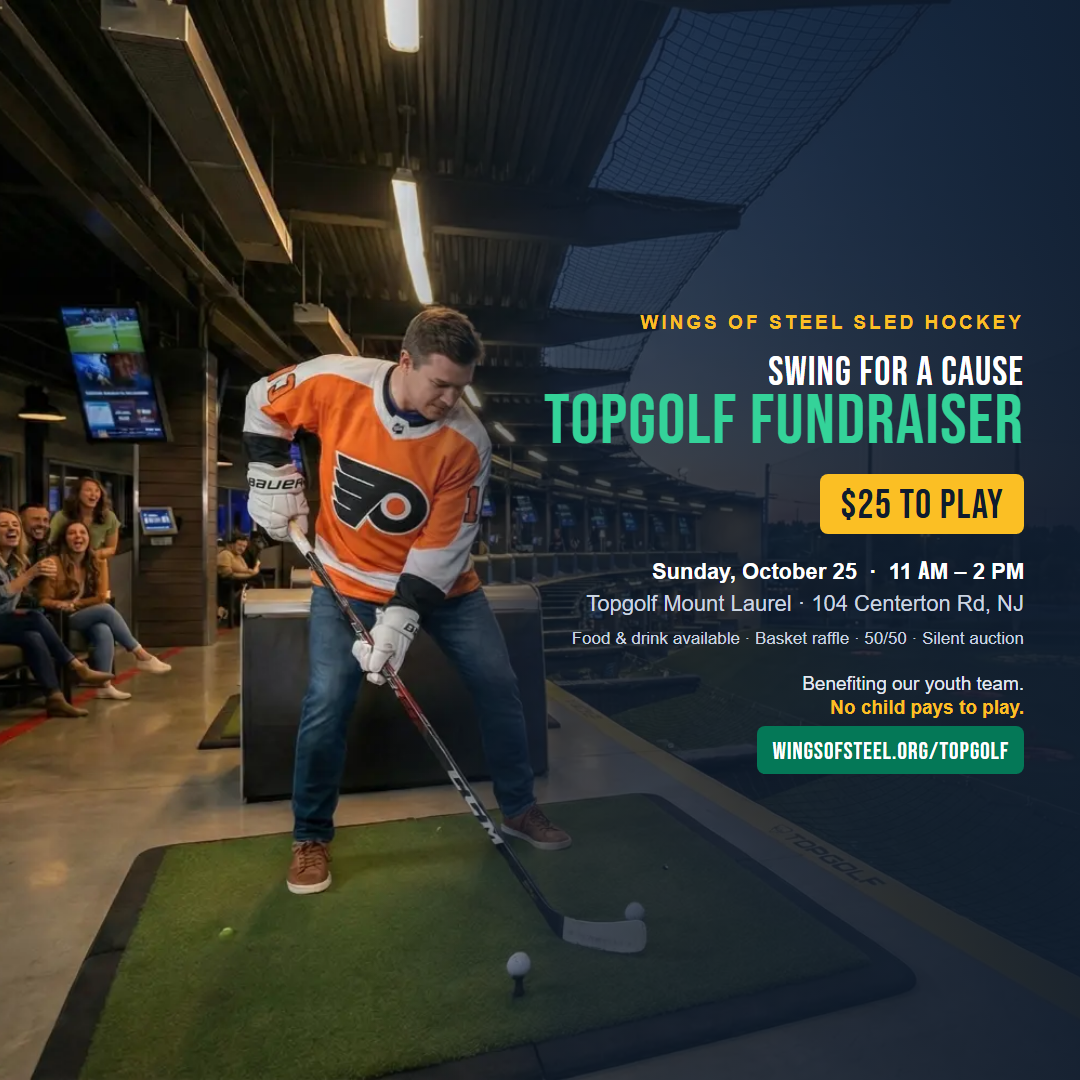
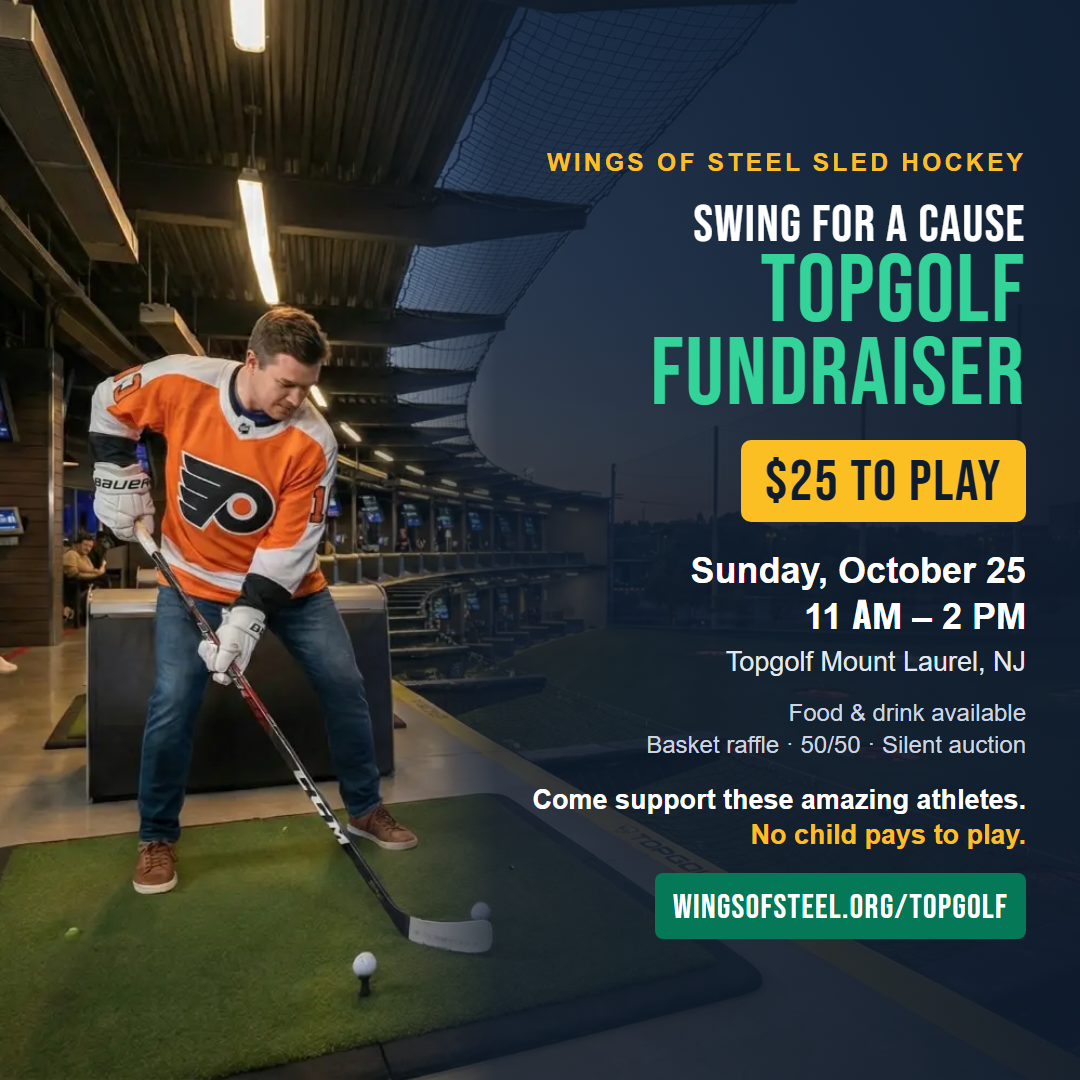
Scale the card type up and lead the copy with why the team exists
The right-hand column fixed the photo but shrank the type to the point of
being unreadable in a feed. The headline now breaks across two lines, which
buys the room to roughly double every size, and the landscape card gets its
own scale rather than a proportional shrink of the square -- same copy in half
the height needed different numbers, and the first attempt overflowed.

Copy now leads with the point rather than the logistics: everyone should get a
chance to play sports, and what these kids overcome to get on the ice is the
reason the team exists. "Come support these amazing athletes" carries onto the
card itself.

Both cards are checked at render time for panel overflow, so a copy edit that
no longer fits fails loudly instead of shipping clipped.

diff --git a/docs/campaigns/assets/fb-card-template.html b/docs/campaigns/assets/fb-card-template.html
@@ -7,48 +7,38 @@ FACES
   .card { position:relative; width:100%; height:100%; font-family:'Oswald',sans-serif; color:#fff; overflow:hidden; }
   .bg { position:absolute; inset:0; }
   .bg img { width:100%; height:100%; object-fit:cover; object-position:var(--imgpos); }
-
-  /* Darken ONLY where type sits, so the player stays untouched. */
   .scrim { position:absolute; inset:0; background:var(--scrim); }
 
   .panel {
-    position:absolute; z-index:2;
-    right:var(--pad); bottom:var(--pad); top:var(--pad);
+    position:absolute; z-index:2; right:var(--pad); top:var(--pad); bottom:var(--pad);
     width:var(--panelw);
-    display:flex; flex-direction:column; justify-content:center;
-    text-align:right;
+    display:flex; flex-direction:column; justify-content:center; text-align:right;
   }
-  .eyebrow { font-weight:700; letter-spacing:.16em; text-transform:uppercase; color:#fbbf24; font-size:var(--eyebrow); }
-  .kicker { font-family:'Bebas Neue',sans-serif; letter-spacing:.03em; line-height:.95; font-size:var(--kicker); margin-top:var(--g1); }
-  .headline { font-family:'Bebas Neue',sans-serif; letter-spacing:.02em; line-height:.88; font-size:var(--headline); color:#34d399; }
-  .price { align-self:flex-end; margin-top:var(--g1); background:#fbbf24; color:#0f1c2e;
+  .eyebrow { font-weight:700; letter-spacing:.12em; text-transform:uppercase; color:#fbbf24; font-size:var(--eyebrow); }
+  .kicker { font-family:'Bebas Neue',sans-serif; letter-spacing:.03em; line-height:1; font-size:var(--kicker); margin-top:var(--g); }
+  .headline { font-family:'Bebas Neue',sans-serif; letter-spacing:.02em; line-height:.86; font-size:var(--headline); color:#34d399; }
+  .price { align-self:flex-end; margin-top:var(--g); background:#fbbf24; color:#0f1c2e;
     font-family:'Bebas Neue',sans-serif; font-size:var(--price); letter-spacing:.03em; line-height:1;
-    padding:var(--pricePad); border-radius:8px; }
-  .price small { font-family:'Oswald',sans-serif; font-weight:600; font-size:var(--priceSmall); }
-  .when { margin-top:var(--g1); font-size:var(--detail); font-weight:600; line-height:1.45; }
-  .when .b { color:#fff; }
-  .when .s { color:#cbd5e1; font-weight:400; }
-  .extras { margin-top:6px; font-size:var(--extras); color:#cbd5e1; font-weight:400; }
-  .foot { margin-top:var(--g1); display:flex; flex-direction:column; align-items:flex-end; gap:8px; }
-  .mission { font-size:var(--mission); color:#e2e8f0; font-weight:400; line-height:1.3; }
-  .mission b { color:#fbbf24; font-weight:700; }
-  .url { font-family:'Bebas Neue',sans-serif; font-size:var(--url); letter-spacing:.04em; background:#047857; padding:var(--urlPad); border-radius:8px; white-space:nowrap; }
+    padding:var(--pricePad); border-radius:10px; }
+  .when { margin-top:var(--g); font-size:var(--detail); font-weight:700; line-height:1.3; }
+  .where { font-size:var(--where); font-weight:400; color:#e2e8f0; line-height:1.35; margin-top:4px; }
+  .extras { margin-top:var(--g2); font-size:var(--extras); color:#cbd5e1; font-weight:400; line-height:1.35; }
+  .rally { margin-top:var(--g); font-size:var(--rally); font-weight:600; color:#fff; line-height:1.3; }
+  .rally b { color:#fbbf24; font-weight:700; display:block; }
+  .url { align-self:flex-end; margin-top:var(--g); font-family:'Bebas Neue',sans-serif; font-size:var(--url);
+    letter-spacing:.04em; background:#047857; padding:var(--urlPad); border-radius:8px; white-space:nowrap; }
 </style></head>
 <body><div class="card">
   <div class="bg"><img src="IMGSRC" alt=""><div class="scrim"></div></div>
   <div class="panel">
     <div class="eyebrow">Wings of Steel Sled Hockey</div>
     <div class="kicker">Swing for a cause</div>
-    <div class="headline">Topgolf Fundraiser</div>
+    <div class="headline">Topgolf<br>Fundraiser</div>
     <div class="price">$25 TO PLAY</div>
-    <div class="when">
-      <span class="b">Sunday, October 25 &nbsp;·&nbsp; 11 AM – 2 PM</span><br>
-      <span class="s">Topgolf Mount Laurel · 104 Centerton Rd, NJ</span>
-    </div>
-    <div class="extras">Food &amp; drink available · Basket raffle · 50/50 · Silent auction</div>
-    <div class="foot">
-      <div class="mission">Benefiting our youth team.<br><b>No child pays to play.</b></div>
-      <div class="url">WINGSOFSTEEL.ORG/TOPGOLF</div>
-    </div>
+    <div class="when">Sunday, October 25<br>11 AM &ndash; 2 PM</div>
+    <div class="where">Topgolf Mount Laurel, NJ</div>
+    <div class="extras">Food &amp; drink available<br>Basket raffle &middot; 50/50 &middot; Silent auction</div>
+    <div class="rally">Come support these amazing athletes.<b>No child pays to play.</b></div>
+    <div class="url">WINGSOFSTEEL.ORG/TOPGOLF</div>
   </div>
 </div></body></html>

diff --git a/docs/campaigns/topgolf-oct-2026-social.md b/docs/campaigns/topgolf-oct-2026-social.md
@@ -27,20 +27,25 @@ load `file://` assets.
 
 Attach: `topgolf-oct-2026-square.png`
 
-> 🏌 We're going back to Topgolf — and you're invited.
+> We're going back to Topgolf — and you're invited.
 >
 > **Sunday, October 25 · 11 AM – 2 PM · Topgolf Mount Laurel**
 > $25 to play. Food and drink available for purchase.
 >
 > Basket raffle, 50/50 and a silent auction going all afternoon.
 >
-> Every ticket benefits our youth team — ice time, sleds, and travel — so that no
-> child ever pays to play. You don't need to have swung a club before. Honestly,
-> most of the fun is watching the people who haven't.
+> Everyone should get a chance to play sports. What these kids overcome just to
+> get on the ice is the whole reason this team exists — and every ticket goes
+> straight to them: ice time, sleds and travel, so that no child ever pays to play.
 >
-> Grab your spot 👉 wingsofsteel.org/topgolf
+> Come support these amazing athletes. You don't need to have swung a club
+> before — honestly, most of the fun is watching the people who haven't.
 >
-> #SledHockey #WingsOfSteel #MountLaurel #SouthJersey #Topgolf #NoChildPaysToPlay
+> Tickets and details: wingsofsteel.org/topgolf
+
+Hashtags are optional and were left off the live post — Facebook gives them
+almost no reach, and they read as clutter on a sincere post. If you want them:
+`#SledHockey #WingsOfSteel #MountLaurel #SouthJersey #Topgolf`
 
 **First comment** (keeps the link out of the post body, which Facebook's reach
 algorithm tends to prefer):
